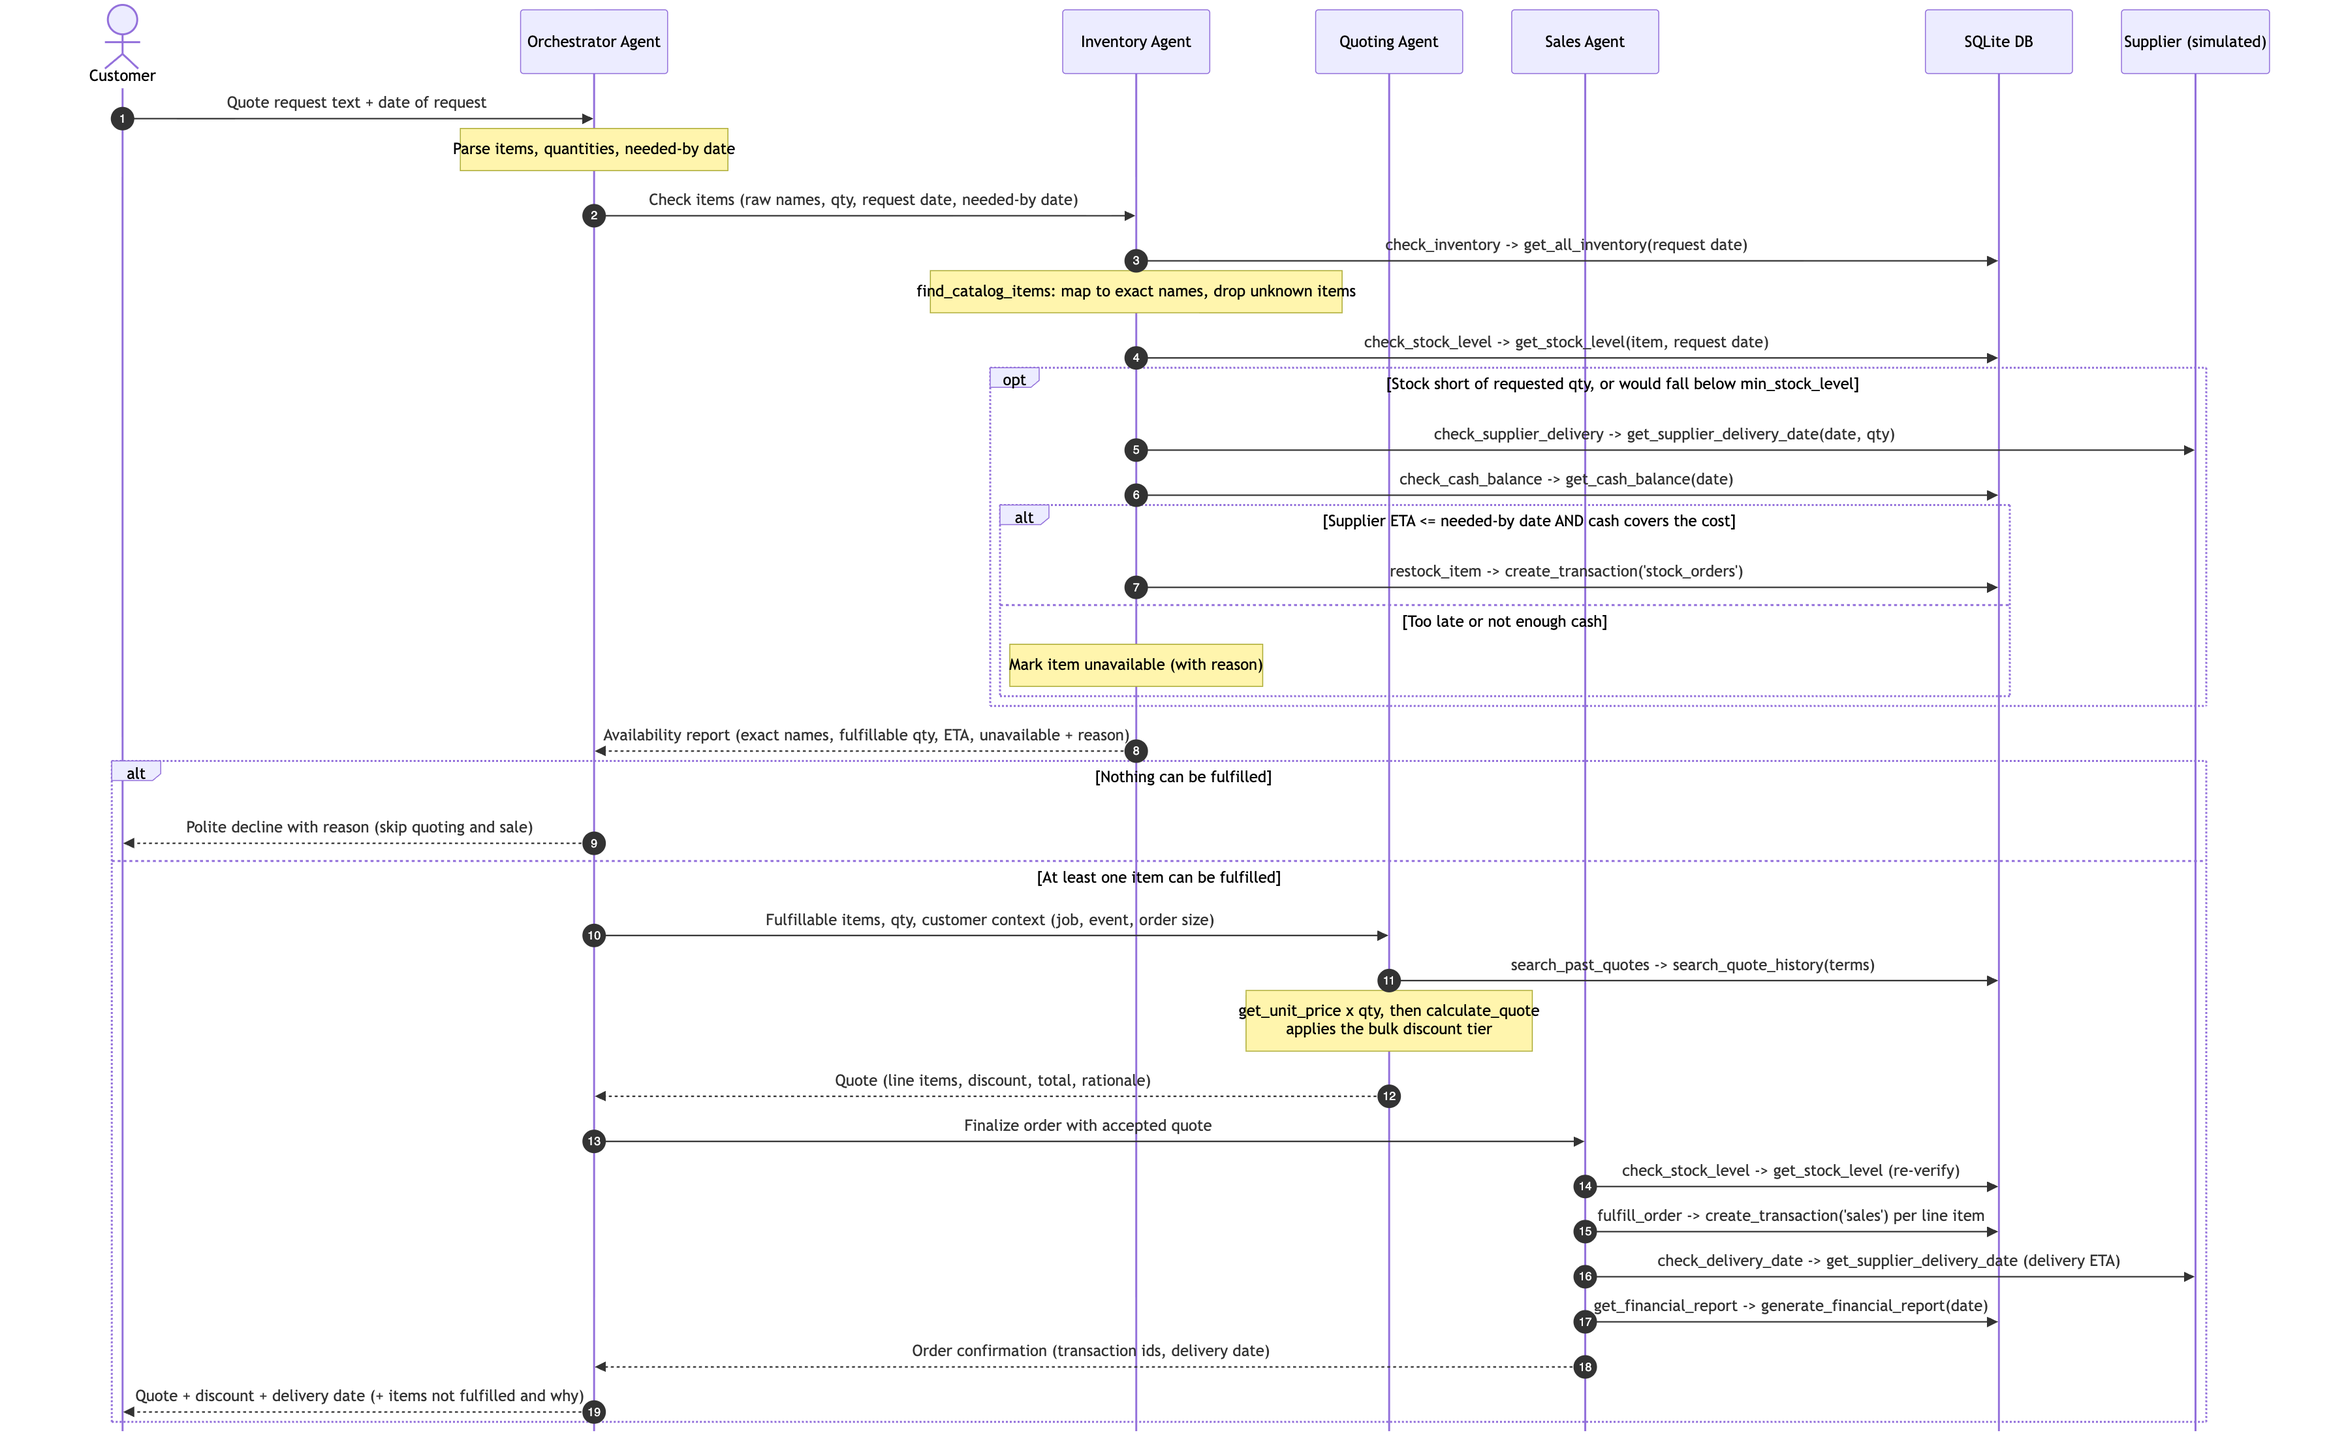
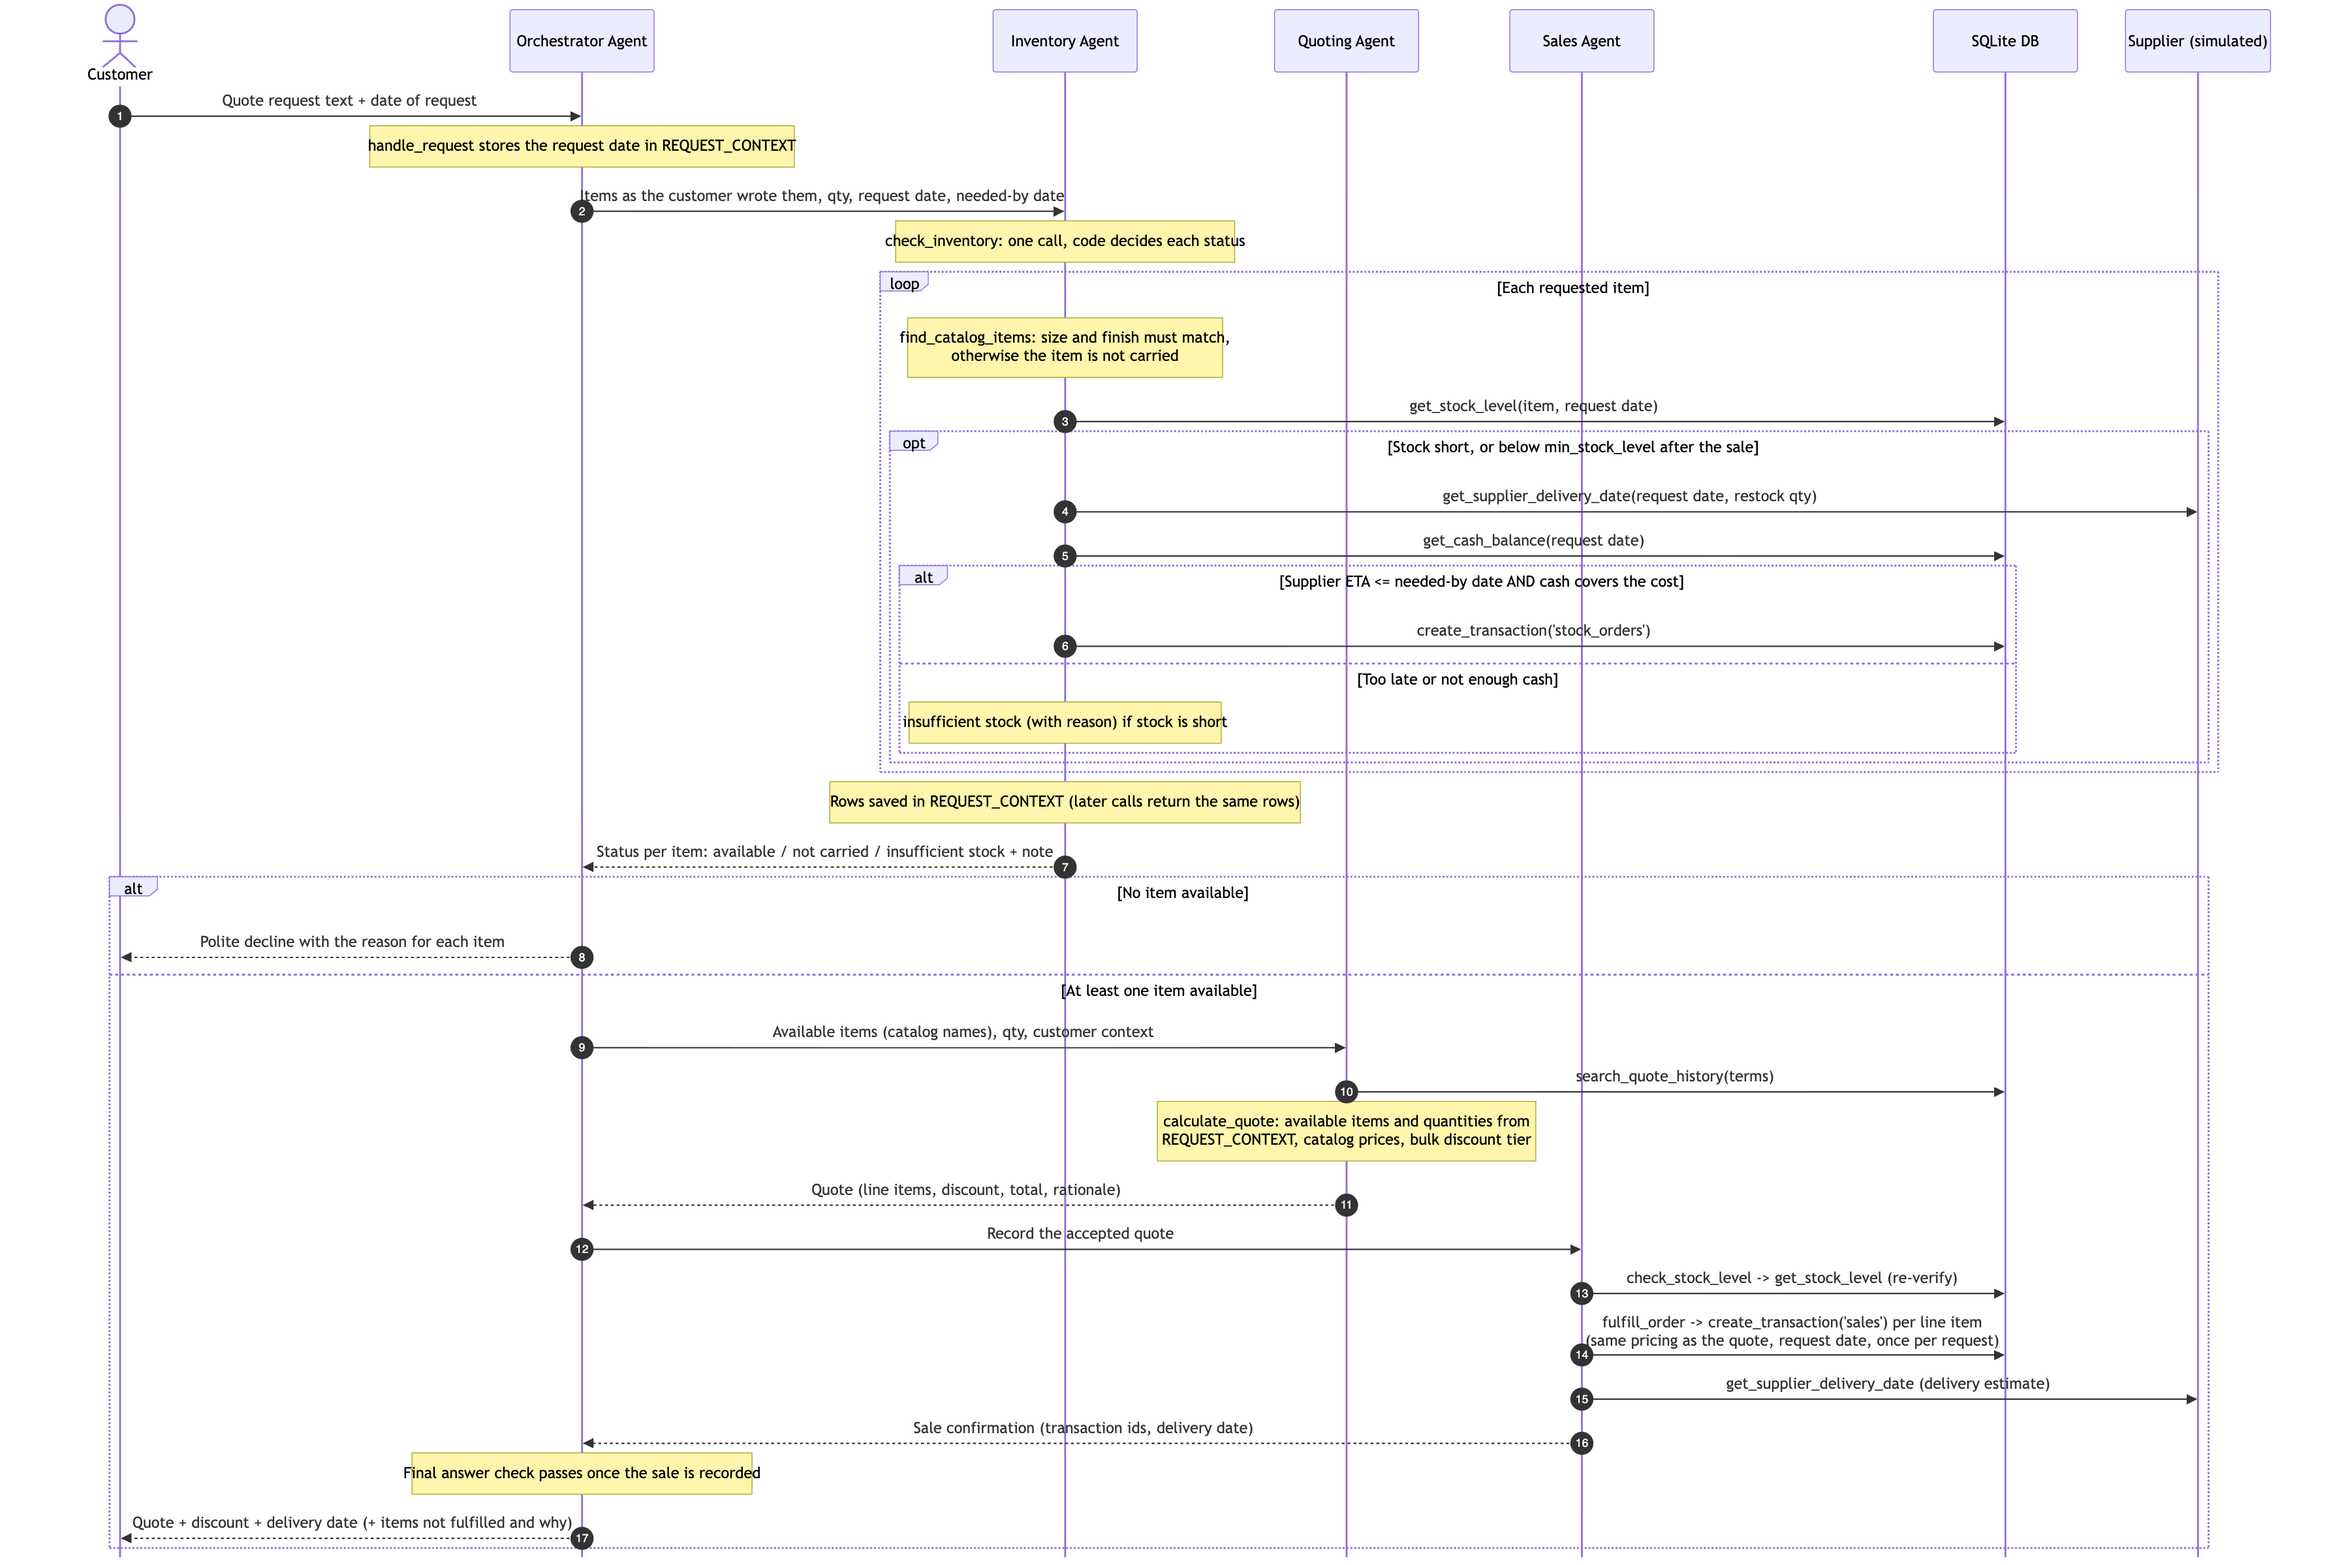
Update workflow diagrams to match the implemented agents and tools
- Architecture diagram shows models, the tool set, and per-request context
- Sequence diagram shows the inventory check, restock rules, and the final
  answer check
- Document design decisions and the safeguards in the tools

diff --git a/diagrams/workflow_diagram.md b/diagrams/workflow_diagram.md
@@ -2,7 +2,9 @@
 
 Four agents built with **smolagents**: one Orchestrator and three workers (Inventory, Quoting, Sales).
 Every customer request comes with its request date. The Orchestrator hands the request to the workers
-in a fixed order and writes the final reply to the customer.
+in a fixed order and writes the final reply to the customer. Business rules (catalog matching,
+restocking, pricing, stock checks) are enforced inside the tools, so the agents decide *what to do
+next* while the code decides *what is allowed*.
 
 Sources: `agent_workflow.mmd`, `request_sequence.mmd` (Mermaid). Render with
 `mmdc -i <file>.mmd -o <file>.png -b white -w 1800 -s 2`.
@@ -11,29 +13,55 @@ Sources: `agent_workflow.mmd`, `request_sequence.mmd` (Mermaid). Render with
 
 ![Agent architecture](agent_workflow.png)
 
-| Agent | Responsibility | Tools → starter helper |
-|---|---|---|
-| **Orchestrator** (`ToolCallingAgent`, `managed_agents=[inventory, quoting, sales]`) | Parse items, quantities and needed-by date; delegate Inventory → Quoting → Sales; skip Quoting and Sales when nothing can be fulfilled; write the customer reply without internal data (cash, margins) | Calls the three worker agents only |
-| **Inventory Agent** | Map requested items to exact catalog names, check stock as of the request date, decide whether to restock | `find_catalog_items` → `paper_supplies`<br>`check_inventory` → `get_all_inventory`<br>`check_stock_level` → `get_stock_level`<br>`check_supplier_delivery` → `get_supplier_delivery_date`<br>`check_cash_balance` → `get_cash_balance`<br>`restock_item` → `create_transaction('stock_orders')` |
-| **Quoting Agent** | Price fulfillable items, compare with similar past quotes, apply the bulk discount tier, explain the price | `search_past_quotes` → `search_quote_history`<br>`get_unit_price` → `paper_supplies`<br>`calculate_quote` → bulk discount tiers |
-| **Sales Agent** | Re-verify stock, record one sale per line item, estimate delivery date, refresh the financial report | `check_stock_level` → `get_stock_level`<br>`check_delivery_date` → `get_supplier_delivery_date`<br>`fulfill_order` → `create_transaction('sales')`<br>`get_financial_report` → `generate_financial_report` |
+| Agent | Model | Responsibility | Tools → starter helpers |
+|---|---|---|---|
+| **Orchestrator** (`ToolCallingAgent`, `managed_agents=[inventory, quoting, sales]`) | gpt-4o, `parallel_tool_calls=False` | Delegate Inventory → Quoting → Sales, one agent per step; continue with the available items even when others are unavailable; write the customer reply without internal data (cash, inventory value, margins). A final answer check (`check_available_items_sold`) refuses the reply while available items are still unsold. | Calls the three worker agents only |
+| **Inventory Agent** | gpt-4o-mini | Send every requested item, as the customer wrote it, to `check_inventory` once and report each row unchanged | `check_inventory` → `find_catalog_items` (`paper_supplies`), `get_stock_level`, `restock_item` (`get_supplier_delivery_date`, `get_cash_balance`, `create_transaction('stock_orders')`)<br>`get_all_inventory` |
+| **Quoting Agent** | gpt-4o-mini | Price the available items, explain the bulk discount tier using similar past quotes | `calculate_quote` → `paper_supplies` unit prices + discount tiers<br>`search_quote_history` |
+| **Sales Agent** | gpt-4o-mini | Re-verify stock, record the accepted order, estimate the delivery date | `check_stock_level` → `get_stock_level`<br>`fulfill_order` → same pricing as `calculate_quote`, `create_transaction('sales')`<br>`get_supplier_delivery_date`<br>`generate_financial_report` |
 
 All seven starter helpers are used by at least one tool. Data sources are the SQLite database
 `munder_difflin.db` (`transactions`, `inventory`, `quotes`, `quote_requests`), the `paper_supplies`
 catalog, and the supplier lead time simulated by `get_supplier_delivery_date`.
 
+**`REQUEST_CONTEXT`** is per-request state that `OrchestrationAgent.handle_request` fills in and
+clears. It holds the request date, the rows from the first `check_inventory` call, and the recorded
+sale, so dates, item names, and quantities do not have to be copied between agents as text.
+
 ## 2. Request lifecycle
 
 ![Request sequence](request_sequence.png)
 
-## 3. Design calls (to confirm during implementation)
+## 3. Design decisions
 
-- **The customer accepts the quote immediately.** The test harness has no back-and-forth, so a
-  fulfillable request goes through to a recorded sale in one pass.
+- **The customer accepts the quote immediately.** The test harness has no back-and-forth, so an
+  available item goes through to a recorded sale in one pass.
+- **Catalog matching is strict on size and finish.** A requested item matches a catalog item only
+  if the catalog item has the size the customer named (A4, letter, 24x36, ...) and its name covers
+  every finish or material asked for (glossy, matte, recycled, ...). "A4 glossy paper" does not
+  match `A4 paper` or `Glossy paper`, so it is *not carried*; "heavy cardstock (white)" matches
+  `Cardstock`; "printer paper" matches `Standard copy paper`.
 - **Restock rule.** Restock when stock is short of the requested quantity, or would fall below
-  `min_stock_level` after the sale. Place the restock only if the supplier ETA is on or before the
-  customer's needed-by date and the cash balance covers the cost. Otherwise mark the item unavailable.
-- **Partial fulfilment.** Items not in the catalog (e.g. balloons, A3 paper) or impossible to deliver
-  in time are dropped with a reason. If nothing remains, the Orchestrator sends a polite decline.
-- **Bulk discount tiers** (by total units in the order, starting proposal):
+  `min_stock_level` after the sale. The order covers the requested quantity plus the minimum level
+  and is placed only if the supplier ETA is on or before the customer's needed-by date and the cash
+  balance covers the cost. Otherwise a short item is *insufficient stock*.
+- **Partial fulfilment.** Items that are not carried, or cannot be restocked in time, are left out
+  with a reason; the rest of the order is still quoted and sold. If no item is available, the
+  Orchestrator sends a polite decline.
+- **Bulk discount tiers** (by total units in the order):
   under 1,000 → 0%; 1,000–4,999 → 5%; 5,000–9,999 → 10%; 10,000 and above → 15%.
+- **Quantities are counted as stated.** "500 reams" is 500 units of the catalog item, as in the
+  historical quotes.
+
+## 4. Safeguards in the tools
+
+| Risk seen in test runs | Safeguard |
+|---|---|
+| Agents look up stock with the customer's wording and get 0 | Every tool resolves names with the same matching rule; unknown names return an error with the reason |
+| Sales recorded under invented item names | `fulfill_order` accepts catalog items only and checks stock first |
+| Prices mistyped when copied between agents | `fulfill_order` prices the order itself, exactly like `calculate_quote` |
+| Wrong quantities or dates copied between agents | Tools take the request date and the available quantities from `REQUEST_CONTEXT` |
+| A sale recorded under a later date makes stock negative later | Stock checks also count transactions dated after the check date |
+| The same agent run concurrently, or Sales called before the quote | Orchestrator calls one agent per step |
+| Substitute items offered, or the inventory re-checked | Only the first `check_inventory` call per request counts |
+| Available items left unsold when other items fail | Final answer check on the Orchestrator |
